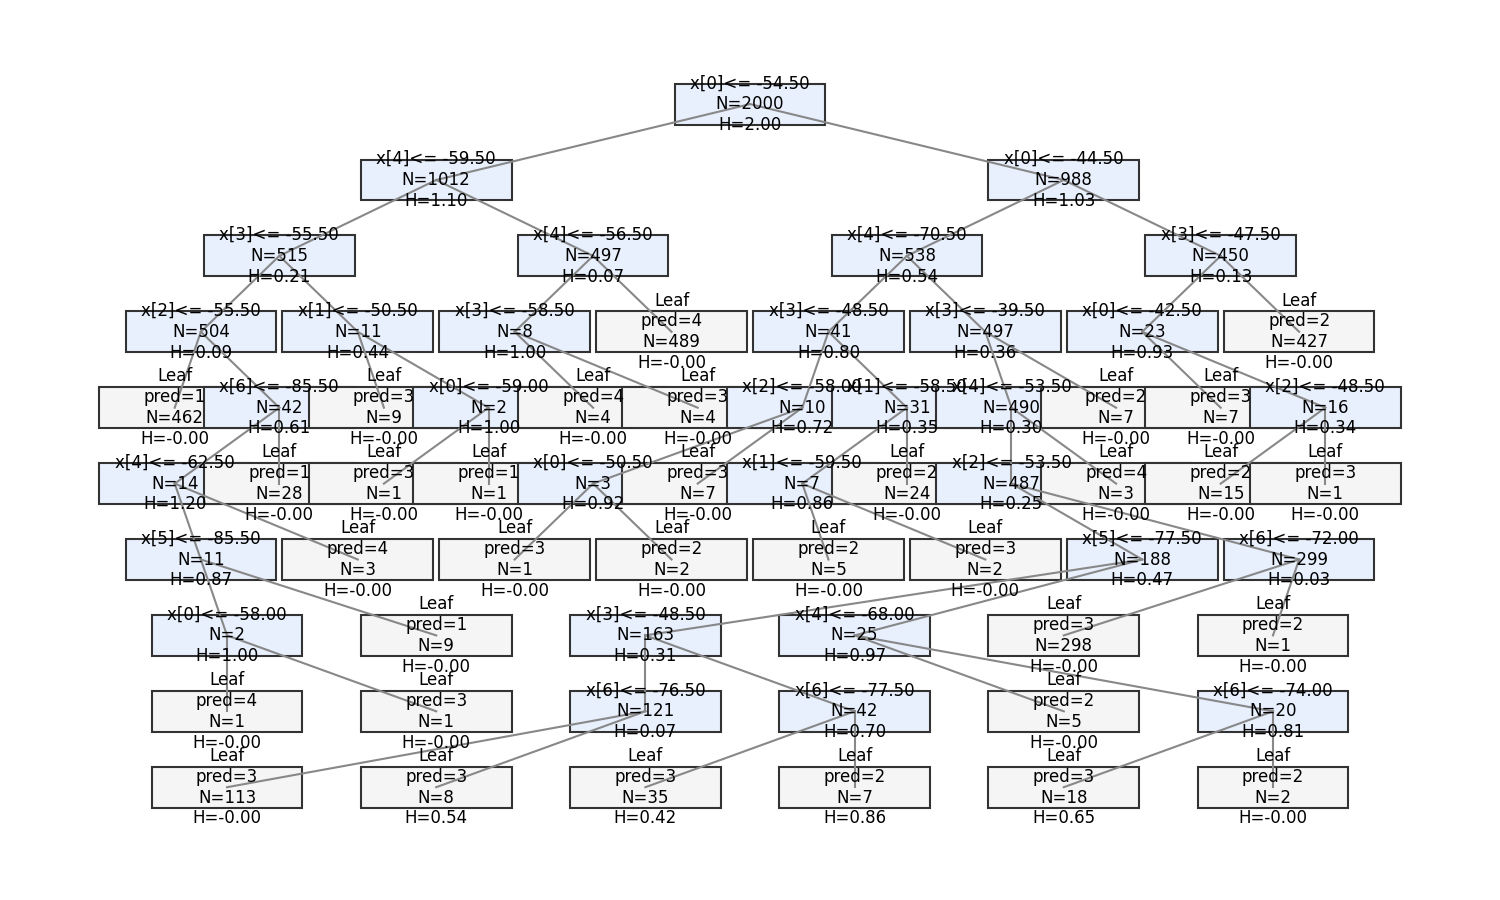
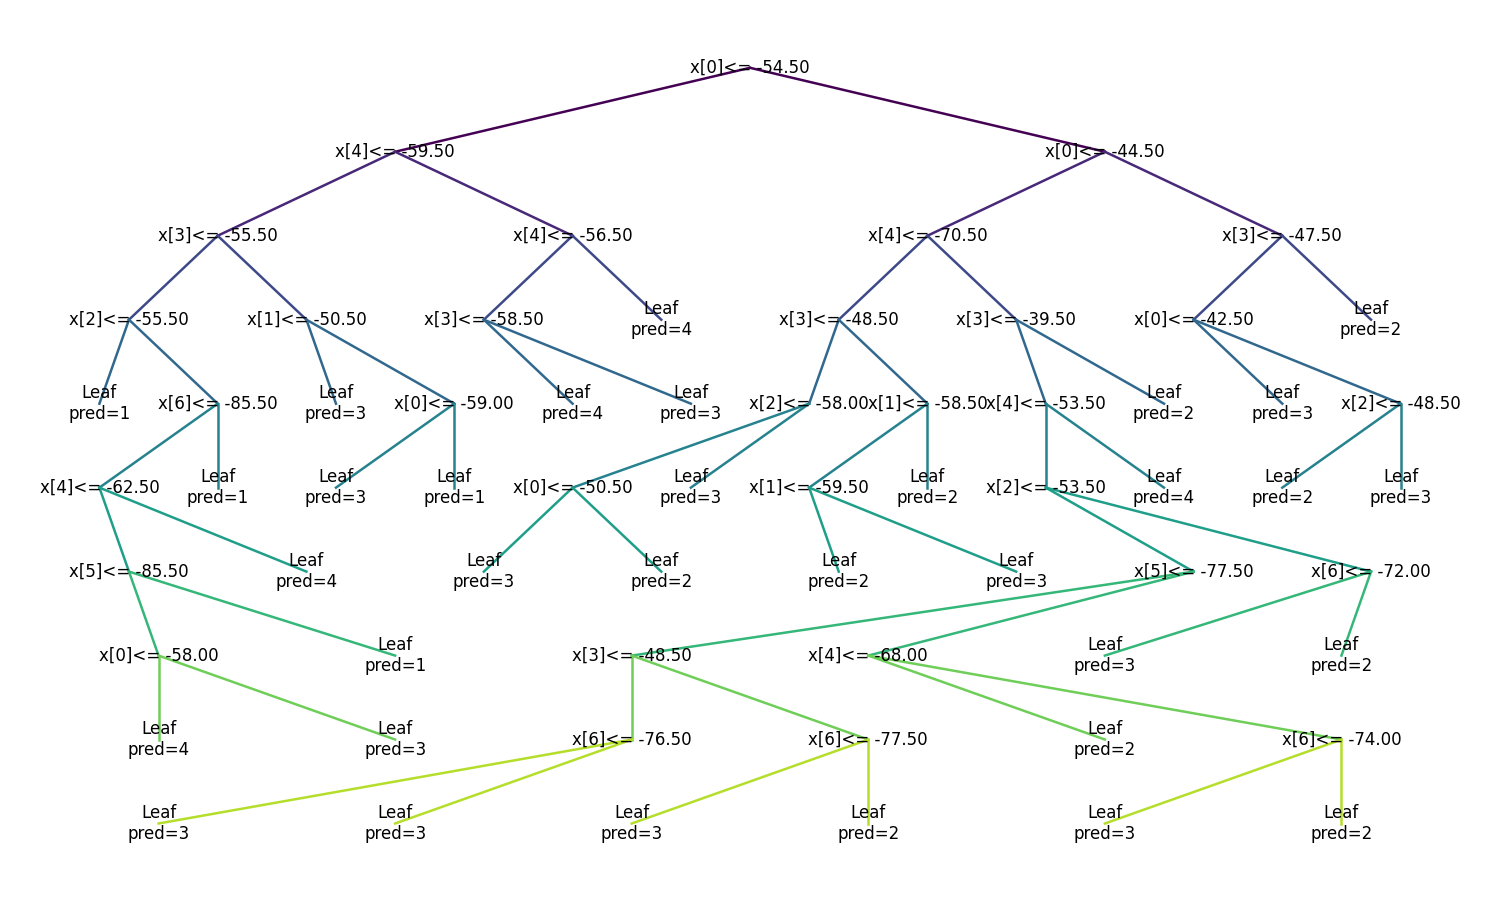
updated visualization

Changed region(s): [[0.0307, 0.1244, 0.9813, 0.9333], [0.3987, 0.0622, 0.6133, 0.1556], [0.7667, 0.1867, 0.7973, 0.2178]]

diff --git a/For_70050/visualize.py b/For_70050/visualize.py
@@ -154,27 +154,28 @@ def plot_tree(root, out_path: Path) -> None:
     ax = plt.gca()
     ax.axis("off")
 
-    # Draw edges first
+    # Draw edges first, color by depth for clarity
+    cmap = plt.get_cmap("viridis")
+    denom = max(max_depth, 1)
     for node, d, _ in layout_list:
         x, y = pos[id(node)]
+        edge_color = cmap(d / denom)
         for child in [getattr(node, "left", None), getattr(node, "right", None)]:
             if child is not None:
                 cx, cy = pos[id(child)]
-                ax.plot([x, cx], [y, cy], color="#888888", linewidth=1)
+                ax.plot([x, cx], [y, cy], color=edge_color, linewidth=1.2)
 
     # Draw nodes
     for node, d, _ in layout_list:
         x, y = pos[id(node)]
         is_leaf = getattr(node, "prediction", None) is not None and getattr(node, "left", None) is None and getattr(node, "right", None) is None
-        box_color = "#F5F5F5" if is_leaf else "#E8F0FE"
-        rect = plt.Rectangle((x - 0.06, y - 0.03), 0.12, 0.06, facecolor=box_color, edgecolor="#333333")
-        ax.add_patch(rect)
-        if getattr(node, "prediction", None) is not None and (getattr(node, "left", None) is None and getattr(node, "right", None) is None):
-            text = f"Leaf\npred={int(node.prediction)}\nN={node.num_samples}\nH={node.impurity:.2f}"
+        # Minimal labels only: remove boxes and N/H info
+        if is_leaf:
+            text = f"Leaf\npred={int(node.prediction)}"
         else:
             feat = getattr(node, "feature", None)
             thr = getattr(node, "threshold", None)
-            text = f"x[{feat}]<= {thr:.2f}\nN={node.num_samples}\nH={node.impurity:.2f}"
+            text = f"x[{feat}]<= {thr:.2f}"
         ax.text(x, y, text, ha="center", va="center", fontsize=8)
 
     plt.tight_layout()
